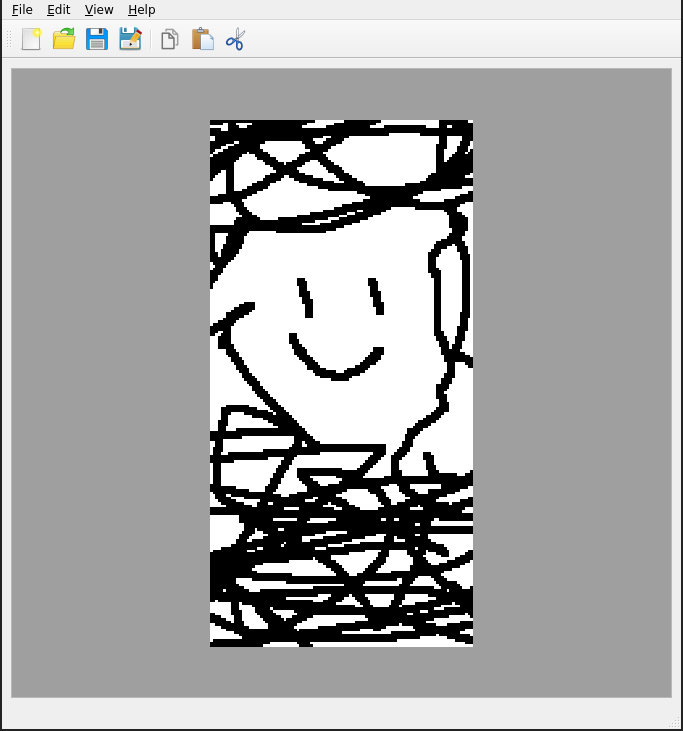
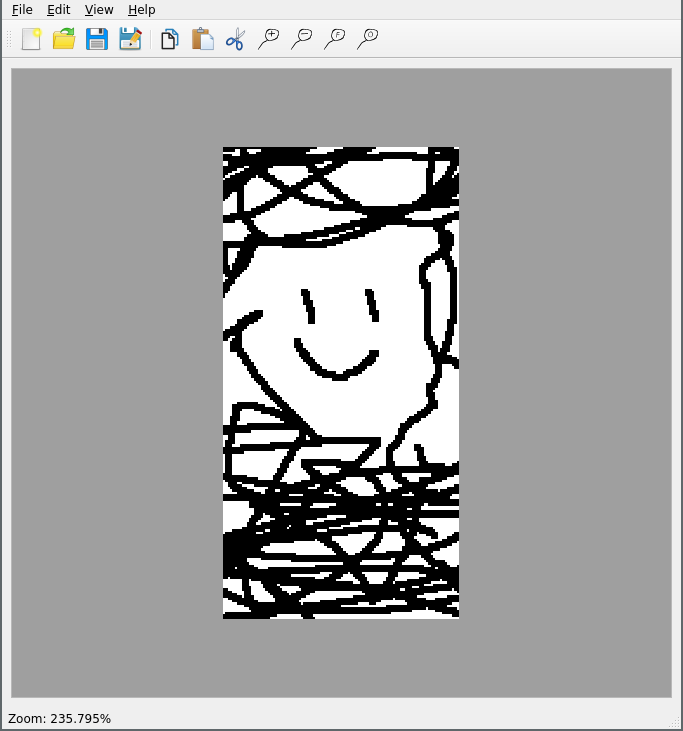
Fixed an issue with the copy toolbar item, zomm factor is now shown in status bar, image file name is now shown in the window title, & updated the screenshot

diff --git a/mainwindow.cpp b/mainwindow.cpp
@@ -11,9 +11,15 @@ MainWindow::MainWindow(QWidget *parent) : QMainWindow(parent), ui(new Ui::MainWi
 	setActionsThatRequireAnImage(false);
 }
 
+void MainWindow::updateStatusBar()
+{
+	statusBar()->showMessage(QString("Zoom: ")+ QString::number(zoomFactor * 100) + '%');
+}
+
 void MainWindow::applyZoom()
 {
 	ui->picLabel->setPixmap(pixmap.scaled(pixmap.size() * zoomFactor, Qt::KeepAspectRatio));
+	updateStatusBar();
 }
 
 void MainWindow::setActionsThatRequireAnImage(bool setTo)
@@ -109,23 +115,33 @@ void MainWindow::on_actionPrint_triggered()
     // ui->scrollArea->print(&printer);
 }
 
-void MainWindow::openFile()
+int MainWindow::openFile()
 {
-	openFile(QFileDialog::getOpenFileName(this, tr("Open file for edit"), "", FILE_FILTER));
+	return openFile(QFileDialog::getOpenFileName(this, tr("Open file for edit"), "", FILE_FILTER));
 }
 
-void MainWindow::openFile(QString fname)
+int MainWindow::openFile(QString fname)
 {
 	if(!maybeSave())
-		return;
-	loadPixmap(QImage(fname));
+		return 1;
+	if (!loadPixmap(QImage(fname)))
+	{
+		setWindowTitleFileName(QUrl(fname).fileName());
+		return 0;
+	}
+	else
+		return 1;
 };
 
 void MainWindow::signalLoadError(const QString& reason)
 {
-	QString msg("The content could not be loaded because ");
-	msg.append(reason);
+	QString msg = QString("The content could not be loaded because ") + reason;
 	QMessageBox::critical(this, APPLICATION_NAME, tr(msg.toStdString().c_str()));
+}
+
+void MainWindow::setWindowTitleFileName(QString fn)
+{
+	setWindowTitle(fn + " - " + APPLICATION_NAME);
 }
 
 void MainWindow::dropEvent(QDropEvent *event)
@@ -134,10 +150,17 @@ void MainWindow::dropEvent(QDropEvent *event)
 	if (md->hasImage())
 	{
 		QImage img = qvariant_cast<QImage>(md->imageData());
-		loadPixmap(img);
+		if (!loadPixmap(img))
+			setWindowTitleFileName("<Untitled>");
+		else
+			return;
 	}
 	else
-		openFile(md->urls()[0].toLocalFile());
+	{
+		QUrl url = md->urls()[0];
+		if (openFile(url.toLocalFile()))
+			return;
+	}
 	event->acceptProposedAction();
 }
 
@@ -182,10 +205,8 @@ void MainWindow::on_actionZoomFit_triggered()
 void MainWindow::on_actionPaste_triggered()
 {
 	QPixmap cPixmap = QGuiApplication::clipboard()->pixmap();
-	if (!cPixmap.isNull())
-	{
-		loadPixmap(cPixmap);
-	}
+	if (!loadPixmap(cPixmap))
+		setWindowTitleFileName("<Untitled>");
 }
 
 void MainWindow::on_actionCopy_triggered()
@@ -193,20 +214,24 @@ void MainWindow::on_actionCopy_triggered()
 	QGuiApplication::clipboard()->setPixmap(pixmap);
 }
 
-void MainWindow::loadPixmap(const QImage& img)
+int MainWindow::loadPixmap(const QImage& img)
 {
-	loadPixmap(QPixmap::fromImage(img));
+	return loadPixmap(QPixmap::fromImage(img));
 }
 
-void MainWindow::loadPixmap(const QPixmap& pm)
+int MainWindow::loadPixmap(const QPixmap& pm)
 {
 	if (pm.isNull())
+	{
 		signalLoadError("it does not appear to contain an image");
+		return 1;
+	}
 	else
 	{
 		pixmap = pm;
 		applyZoom(1);
 		setActionsThatRequireAnImage(true);
+		return 0;
 	}
 }
 

diff --git a/mainwindow.h b/mainwindow.h
@@ -49,8 +49,8 @@ class MainWindow : public QMainWindow
 	private:
 		bool modified = false;
 		Ui::MainWindow *ui;
-		void openFile(QString);
-		void openFile();
+		int openFile(QString);
+		int openFile();
 		void dropEvent(QDropEvent*);
 		void dragEnterEvent(QDragEnterEvent*);
 		float zoomFactor = 1;
@@ -59,10 +59,12 @@ class MainWindow : public QMainWindow
 		void applyZoom();
 		QPixmap pixmap;
 		float calcFittingZoom();
-		void loadPixmap(const QPixmap&);
-		void loadPixmap(const QImage&);
+		int loadPixmap(const QPixmap&);
+		int loadPixmap(const QImage&);
 		void signalLoadError(const QString& reason);
 		void setActionsThatRequireAnImage(bool);
+		void setWindowTitleFileName(QString fn);
+		void updateStatusBar();
 
 };
 

diff --git a/README.md b/README.md
@@ -10,19 +10,15 @@
 
 * The GUI language is English, the source code has to be prepared for later translation
 * If present, Qt standard dialogues are used for opening, saving, ...
+* If loading or saving an image fails, a useful error message is displayed
 * The application determines what image formats are available on the current system under QT and offers them in the file dialogues
 * The "View" - menu comprises at least Zoom In (Ctrl++), Zoom out (Ctrl+-), Zoom 100% (Ctrl+0), Fit to Window (Ctrl+F), and Show Dialog
-* Not available functions are disabled
 * The application has an icon if supported by the OS
-* The image can be shown in selectable zoom modes between 25% and 400%
-* The current zoom is shown in the status bar
-* The visible part of the image can be moved by dragging with the mouse
-* The mouse pointer turns into a grabbing hand when dragging
 * The shown picture can be printed, where the printer can be selected from a standard dialogue
 * The application saves window size, position, and other important settings and restores them upon start
-* The name of the shown image file is shown in the window title without path prefix
-* If loading or saving an image fails, a useful error message is displayed
 * Joker: A requirement of my choice
+* The visible part of the image can be moved by dragging with the mouse
+* The mouse pointer turns into a grabbing hand when dragging
 
 #### DONE
 
@@ -39,6 +35,10 @@
 * The status bar shows important information - status tips
 * A picture - at least BMP, JPEG, & PNG - can be loaded from file and will be displayed
 * An image file can be dragged and dropped into the application from the file explorer or alike
+* Not available functions are disabled
+* The image can be shown in selectable zoom modes between 25% and 400%
+* The name of the shown image file is shown in the window title without path prefix
+* The current zoom is shown in the status bar
 
 ### Phase 2
 
